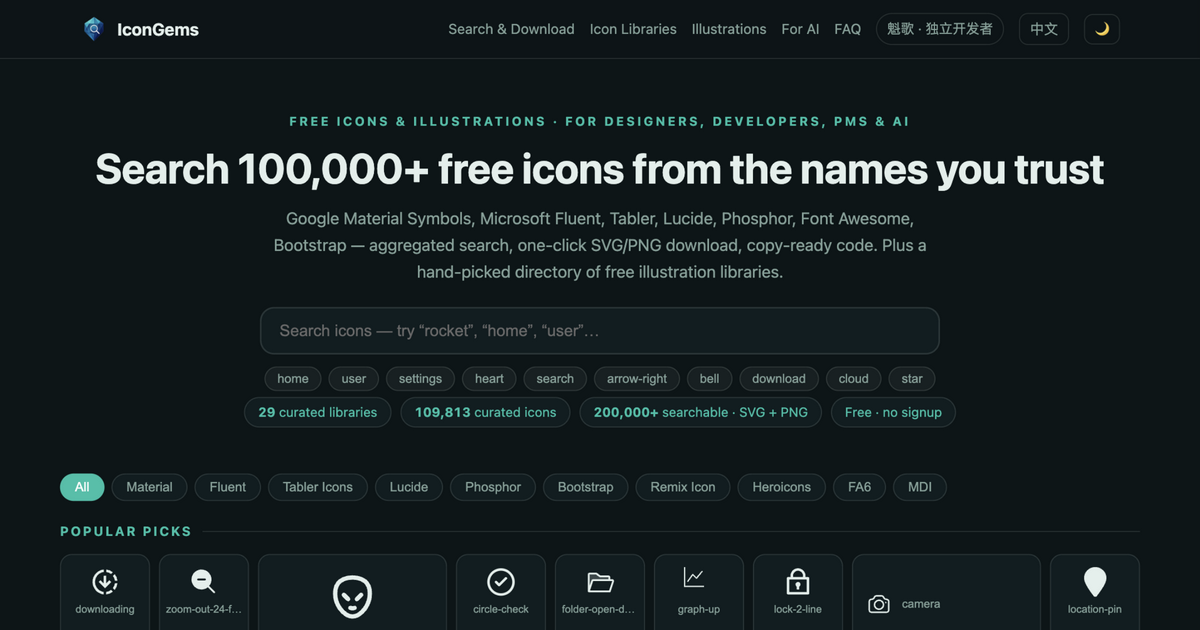
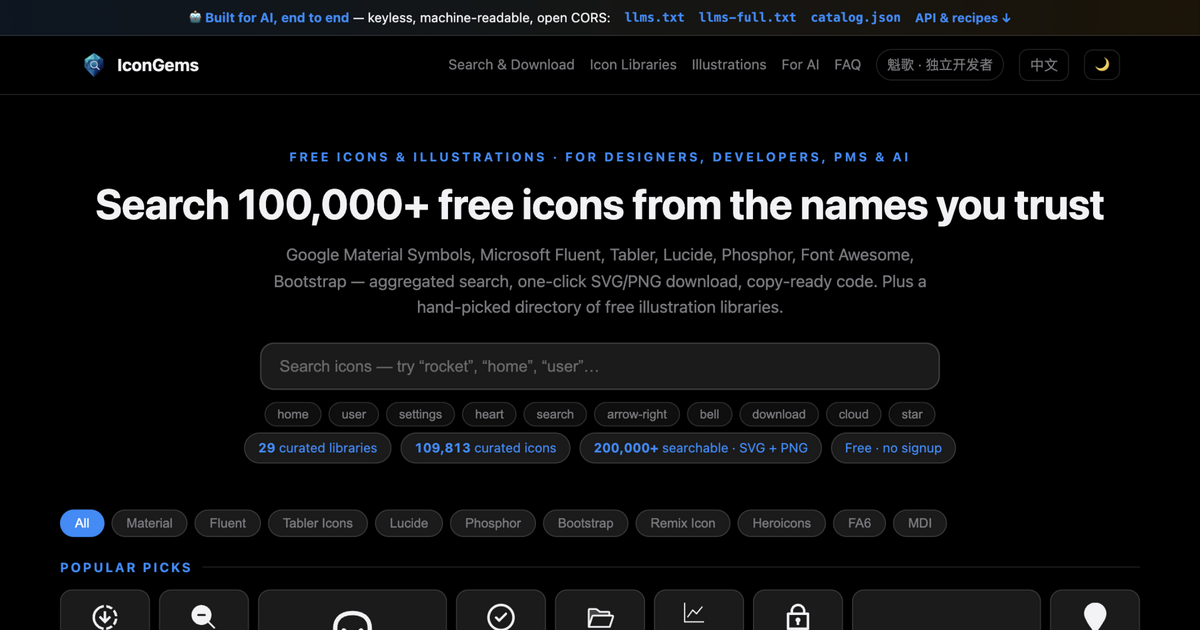
Recolor to Apple.com palette: light #f5f5f7/#fff/#1d1d1f/#0071e3, dark #000/#1d1d1f/#2997ff + system orange; swatch presets & API example updated; og-image regenerated

diff --git a/index.html b/index.html
@@ -37,14 +37,14 @@
 </script>
 <style>
 :root{
-  --bg:#f3faf8; --card:#ffffff; --ink:#18302b; --mut:#5e7a73;
-  --accent:#0b9d87; --accent2:#a8762a; --line:rgba(24,48,43,.13);
-  --glow:rgba(11,157,135,.10); --chipbg:rgba(24,48,43,.04);
+  --bg:#f5f5f7; --card:#ffffff; --ink:#1d1d1f; --mut:#6e6e73;
+  --accent:#0071e3; --accent2:#b25000; --line:rgba(0,0,0,.1);
+  --glow:rgba(0,113,227,.12); --chipbg:rgba(0,0,0,.04);
 }
 html.dark{
-  --bg:#071518; --card:#0c2024; --ink:#e6f2ee; --mut:#8daba3;
-  --accent:#2cc9b0; --accent2:#e0b25b; --line:rgba(230,242,238,.12);
-  --glow:rgba(44,201,176,.11); --chipbg:rgba(230,242,238,.05);
+  --bg:#000000; --card:#1d1d1f; --ink:#f5f5f7; --mut:#86868b;
+  --accent:#2997ff; --accent2:#ff9f0a; --line:rgba(255,255,255,.14);
+  --glow:rgba(41,151,255,.16); --chipbg:rgba(255,255,255,.06);
 }
 *{box-sizing:border-box}
 html,body{margin:0;padding:0}
@@ -366,7 +366,7 @@ select{background:var(--card);color:var(--ink);border:1px solid var(--line);bord
       <p data-i18n="ai_3">Open CORS, no key, no quota games — the same endpoints this page uses.</p>
       <div class="code" id="apiCode"><button class="cp" data-i18n="copy">Copy</button><span id="apiCodeTxt">curl "https://api.iconify.design/search?query=rocket&limit=24"
 curl "https://api.iconify.design/search?query=rocket&prefixes=lucide,tabler"
-curl "https://api.iconify.design/lucide/rocket.svg?color=%230b9d87&height=64"
+curl "https://api.iconify.design/lucide/rocket.svg?color=%230071e3&height=64"
 curl "https://api.iconify.design/collections?prefixes=lucide,tabler"</span></div>
     </div>
     <div class="ai">
@@ -974,7 +974,7 @@ function renderColors(){
     hint.textContent=t('multicolor');box.appendChild(hint);return;
   }
   const lab=document.createElement('span');lab.style.cssText='font-size:12.5px;color:var(--mut)';lab.textContent=t('color');box.appendChild(lab);
-  const swatches=['','#0b9d87','#e5484d','#e0b25b','#2f6df6','#8b5cf6','#111111','#ffffff'];
+  const swatches=['','#0071e3','#ff3b30','#ff9500','#34c759','#af52de','#1d1d1f','#ffffff'];
   for(const c of swatches){
     const b=document.createElement('button');b.className='sw2'+(curColor===c?' on':'')+(c?'':' auto');b.type='button';
     if(!c){b.title=t('current');b.textContent='A';}
@@ -983,7 +983,7 @@ function renderColors(){
     box.appendChild(b);
   }
   const custom=document.createElement('label');custom.className='sw2 custom';custom.title='custom';
-  const inp=document.createElement('input');inp.type='color';inp.value=curColor&&curColor.startsWith('#')&&curColor.length===7?curColor:'#0b9d87';
+  const inp=document.createElement('input');inp.type='color';inp.value=curColor&&curColor.startsWith('#')&&curColor.length===7?curColor:'#0071e3';
   inp.oninput=()=>{curColor=inp.value;renderColors();renderPrev();renderTabs(true);};
   custom.appendChild(inp);box.appendChild(custom);
 }
